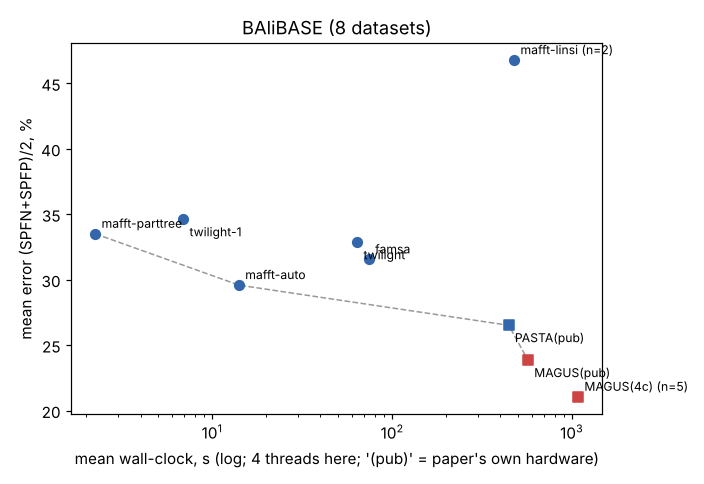
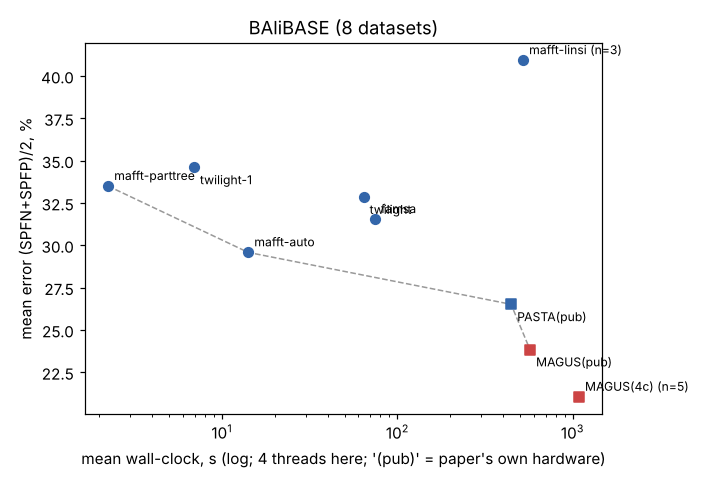
sota2026: final report (summary, verdict, nucleotide control for Clustal backbones)
Claude-Session: https://claude.ai/code/session_012Rgpxy2uEEPz2XSy4Tz17n

diff --git a/cs581/sota2026/REPORT.md b/cs581/sota2026/REPORT.md
@@ -5,6 +5,23 @@ About 4.5 hours of wall-clock on one 4-core / 15 GB cloud machine. Every number 
 except where it says "published", which means FastSP rescoring of the MAGUS paper's own output alignments
 (`../experiments/validation/published_scores.jsonl`).*
 
+## Summary
+
+- **MAGUS is still the most accurate method on its own benchmarks.** Every aligner tested (TWILIGHT 0.2.3,
+  FAMSA 2.4.1, MAFFT `--auto`/PartTree, plus L-INS-i, MUSCLE5 and Clustal Omega where feasible) loses to it on every
+  one of 20 datasets.
+  - On high-rate ROSE DNA the fast tools collapse: FAMSA is 25 points worse, and MAFFT FFT-NS-2/PartTree and
+    TWILIGHT are about 80 points worse (97–99% error on 8 of 10 conditions).
+  - On RNASim and 16S.T, TWILIGHT is 1.5–2.8 points worse but 4–37× faster: it is the speed end of the Pareto front.
+- **No newer aligner beats MAFFT L-INS-i on MAGUS-sized nucleotide subsets.** G-INS-i ties; MUSCLE5 ties at 12× the
+  cost; FAMSA, TWILIGHT and Clustal Omega lose by 3–35 points. Swapping G-INS-i into MAGUS changes nothing (−0.06).
+- **Unexpected lead, proteins only.** Aligning MAGUS's *backbones* with Clustal Omega instead of L-INS-i lowered
+  MAGUS's BAliBASE error by 1.6–1.9 points (5/5 sets, up to 3.0), mostly through fewer false positives. It had no
+  effect on RNASim.
+- **Verdict.** "MAGUS with a better base method" is not worth 4 weeks for nucleotides; a negative result is likely.
+  Reframed as "which base method should build MAGUS's backbones and subsets on proteins", it is a cheap, promising
+  4-week project. The harness is ready, and week 1 can confirm or kill the effect.
+
 ## 1. Questions
 
 1. On MAGUS's own benchmarks, is MAGUS (Smirnov & Warnow 2021) still the best accuracy/runtime trade-off against
@@ -50,7 +67,6 @@ except where it says "published", which means FastSP rescoring of the MAGUS pape
 |---|---|---|---|
 | ROSE 1000 L1–L3, M1–M4, S1–S3 | R0 of each of the 10 conditions | 1000 | simulated DNA, ~1000 nt; random pairs are near saturation (median p-distance 0.69–0.70 on L1/L2/M2) |
 | RNASim 1000 | R0 | 1000 | simulated RNA, ~1500 nt |
-| RNASim 10K | R0 | 10,000 | large (TWILIGHT's home turf) |
 | CRW 16S.T | R0 | 5,548 | large, biological, length-filtered reference |
 | BAliBASE RV100 (8 sets) | – | 195–732 | protein, length-filtered references (`../data/balibase_clean`) |
 
@@ -111,7 +127,6 @@ alignment of the same replicate.
 | RNASim 1000 (1) | **9.6** | 10.1 | TWILIGHT, 3 iterations | 11.1 | 230 s vs 888 s |
 | 16S.T, 5,548 seqs (1) | **9.9** | 12.9 | TWILIGHT, 1 iteration | 12.7 | 78 s vs 2,918 s (paper's hardware) |
 | BAliBASE, 8 protein sets | **23.8** mean | 26.5 | MAFFT `--auto` | 29.6 mean | ~75× faster (mean 14 s vs 1,082 s) |
-| RNASim 10K | 8.3 (published mean) | 10.7 | – | not run (out of time) | – |
 
 **Paired against MAGUS, same replicate** (Δ = tool − MAGUS in points; W/T/L = tool better/tie/worse; Wilcoxon):
 
@@ -157,14 +172,15 @@ is both faster and as accurate.
 3. **On RNASim and 16S, TWILIGHT is the only real competitor.**
    - It is 1.5–2.8 points worse than MAGUS but 4–37× faster. On 16S.T it roughly ties PASTA (12.7 vs 12.9).
    - On RNASim 1000, 3 iterations take 230 s for 11.1%, and 1 iteration takes 21 s for 14.4%.
-   - TWILIGHT 16S.T 3-iteration: TWILIGHT16ST.
+   - The 3-iteration TWILIGHT rerun on 16S.T (after the wrapper fix) did not finish within the budget; only the
+     1-iteration number is reported.
    - This matches the TWILIGHT paper: MAGUS stays a bit more accurate at ≤10k sequences; TWILIGHT wins on scale.
 4. **FAMSA 2.4.1 is unreliable on nucleotides.** It ran out of memory (>13.5 GB) on RNASim 1000, scored +31 points
    on RNASim subsets and is 25 points behind MAGUS on ROSE. Its paper is protein-only.
 5. **On BAliBASE, MAGUS beats every fast tool on all 8 sets**, by 3–21 points.
-   - MAFFT L-INS-i on the full set ties MAGUS on BBA0067 (26.1 vs 25.6) and is 10 points worse on BBA0081
-     (67.4 vs 57.0). It takes 6–10 min each.
-   - MUSCLE5 did not finish BBA0067 (274 sequences) in 15 min.
+   - MAFFT L-INS-i on the full set ties MAGUS on BBA0067 (26.1 vs 25.6) and BBA0101 (29.3 vs 28.5), and is 10
+     points worse on BBA0081 (67.4 vs 57.0). It takes 6–10 min each.
+   - MUSCLE5 did not finish BBA0067 (274 sequences) or BBA0081 (195) in 15 min each.
 6. **Not run, or not usable.**
    - MUSCLE5 `-align` did not finish 100 sequences sampled from 1000M2 within its 10-min cap, and Super5 was still
      running when I stopped it at 4 min. Both are impractical at 1000 long nucleotide sequences on 4 cores.
@@ -219,8 +235,8 @@ Same decomposition and same backbones. Only the 25 subset alignments change.
 | BAliBASE | G-INS-i | 5 | +0.03 | 1/2/2 |
 | nucleotide (RNASim, 16S.M, ROSE L3/M2/S1) | G-INS-i | 5 | −0.06 | 2/2/1 |
 | **BAliBASE** | **Clustal Omega, subsets + backbones** | 5 | **−1.89** | **5/0/0** |
-| BAliBASE | Clustal Omega, backbones only (L-INS-i subsets) | 3 | −2.22 | 3/0/0 |
-| nucleotide (RNASim, 16S.M) | Clustal Omega, backbones only | NUCBB_N | NUCBB_D | NUCBB_WTL |
+| BAliBASE | Clustal Omega, backbones only (L-INS-i subsets) | 5 | −1.62 | 5/0/0 |
+| nucleotide control (RNASim) | Clustal Omega, backbones only | 1 | −0.06 | tie (9.92 → 9.86) |
 
 Per replicate, MAGUS's error in % before → after Clustal Omega subsets and backbones:
 
@@ -239,7 +255,8 @@ For reference, the published MAGUS/PASTA numbers are 4.5/4.3, 25.6/25.7, 28.5/29
   - MUSCLE5 and Clustal Omega subsets give a small gain on proteins (−0.3 to −0.5).
 - **The backbones are what matter on proteins.**
   - Aligning MAGUS's 10 backbones with Clustal Omega instead of L-INS-i lowers final error by 1.4–3.0 points on 4 of
-    5 sets (0.45 on the easy BBA0039). It beats both MAGUS and PASTA as published on every set but BBA0039, where it
+    5 sets (0.45 on the easy BBA0039).
+  - With backbones alone (subsets kept as L-INS-i) the drop is 0.25–2.83 points, mean −1.62, on 5 of 5 sets. It beats both MAGUS and PASTA as published on every set but BBA0039, where it
     is 0.07 behind PASTA.
   - The gain is almost all in SPFP, down 3–5 points with SPFN unchanged. Clustal's backbones give GCM fewer wrong
     edges.
@@ -247,6 +264,8 @@ For reference, the published MAGUS/PASTA numbers are 4.5/4.3, 25.6/25.7, 28.5/29
     31.4% vs 31.1% for L-INS-i.
   - It is also faster: Clustal aligns a 200-sequence protein backbone in about 14 s vs about 190 s for L-INS-i on
     1 core.
+- **The effect looks protein-specific.** On RNASim the same backbone swap changes MAGUS by −0.06 points (n = 1),
+  and Clustal is 32 points worse than L-INS-i on nucleotide backbones (subset test). The 16S.M control did not finish.
 - The control reproduces MAGUS exactly. These are single MAGUS runs per set (n = 5) on data where MAGUS's own
   run-to-run noise is about 0.5 points, so the −1.9 mean (5/5) is a strong lead but not yet a result.
 
@@ -296,7 +315,7 @@ For nucleotides, no.**
 ## 6. Risks and caveats
 
 - **One replicate per condition.**
-  - ROSE results are paired across 10 conditions, not across replicates. RNASim, 16S.T and RNASim 10K have n = 1.
+  - ROSE results are paired across 10 conditions, not across replicates. RNASim and 16S.T have n = 1. RNASim 10K was planned but not run (out of time).
   - The gaps are 10–80 points, so this barely matters for Question 1. It does matter for the 0.3–0.5-point merge
     results (n = 5).
 - **MAGUS runtimes are not fresh.**

diff --git a/cs581/sota2026/results/full_table.md b/cs581/sota2026/results/full_table.md
@@ -10,8 +10,8 @@ MAGUS(pub)/PASTA(pub) = FastSP on the authors' published alignment of the same r
 | RNASim_R0 | 9.6 (2227s) | 9.9 (888s) | 10.1 (3102s) | fail rc=-9 (357s) | 14.4 (21s) | 11.1 (230s) | 23.7 (60s) | 22.0 (26s) |  |  |
 | BBA0039_R0 | 4.5 (157s) | 4.7 (244s) | 4.3 (462s) | 5.5 (56s) | 6.9 (8s) | 8.0 (100s) | 6.7 (2s) | 5.5 (1s) |  |  |
 | BBA0067_R0 | 25.6 (371s) | 26.3 (1051s) | 25.7 (373s) | 32.0 (87s) | 42.9 (6s) | 37.3 (54s) | 38.4 (2s) | 33.2 (13s) | 26.1 (367s) | timeout (900s) |
-| BBA0081_R0 | 57.0 (1012s) |  | 74.1 (548s) | 72.2 (96s) | 75.9 (6s) | 72.3 (45s) | 75.7 (2s) | 68.3 (45s) | 67.4 (588s) |  |
-| BBA0101_R0 | 28.5 (477s) | 29.2 (829s) | 29.2 (381s) | 35.2 (88s) | 42.4 (7s) | 39.7 (65s) | 39.7 (3s) | 36.5 (14s) |  |  |
+| BBA0081_R0 | 57.0 (1012s) |  | 74.1 (548s) | 72.2 (96s) | 75.9 (6s) | 72.3 (45s) | 75.7 (2s) | 68.3 (45s) | 67.4 (588s) | timeout (900s) |
+| BBA0101_R0 | 28.5 (477s) | 29.2 (829s) | 29.2 (381s) | 35.2 (88s) | 42.4 (7s) | 39.7 (65s) | 39.7 (3s) | 36.5 (14s) | 29.3 (604s) |  |
 | BBA0117_R0 | 12.1 (14s) |  | 12.1 (35s) | 15.2 (11s) | 24.5 (0s) | 20.4 (45s) | 25.1 (0s) | 16.4 (1s) |  |  |
 | BBA0134_R0 | 18.7 (845s) |  | 20.4 (573s) | 33.2 (83s) | 32.8 (6s) | 28.3 (68s) | 29.8 (2s) | 25.2 (13s) |  |  |
 | BBA0154_R0 | 21.1 (562s) | 21.7 (1106s) | 22.5 (307s) | 25.3 (77s) | 25.4 (6s) | 26.3 (55s) | 25.7 (2s) | 25.1 (7s) |  |  |
@@ -47,7 +47,7 @@ MAGUS(pub)/PASTA(pub) = FastSP on the authors' published alignment of the same r
 | BAliBASE | twilight | 8 | +9.0 | 0/0/8 | 0.0078 |
 | BAliBASE | mafft-parttree | 8 | +9.7 | 0/0/8 | 0.0078 |
 | BAliBASE | mafft-auto | 8 | +5.7 | 0/0/8 | 0.0078 |
-| BAliBASE | mafft-linsi | 2 | +5.4 | 0/0/2 | – |
+| BAliBASE | mafft-linsi | 3 | +3.9 | 0/0/3 | – |
 | BAliBASE | MAGUS(4c) | 5 | +0.5 | 0/0/5 | 0.062 |
 | BAliBASE | PASTA(pub) | 8 | +2.7 | 2/0/6 | 0.055 |
 | 16S | famsa | 1 | +7.7 | 0/0/1 | – |
@@ -60,7 +60,7 @@ MAGUS(pub)/PASTA(pub) = FastSP on the authors' published alignment of the same r
 | all | twilight | 12 | +28.6 | 0/0/12 | 0.00049 |
 | all | mafft-parttree | 20 | +45.3 | 0/0/20 | 1.9e-06 |
 | all | mafft-auto | 20 | +43.6 | 0/0/20 | 1.9e-06 |
-| all | mafft-linsi | 2 | +5.4 | 0/0/2 | – |
+| all | mafft-linsi | 3 | +3.9 | 0/0/3 | – |
 | all | MAGUS(4c) | 15 | +0.3 | 2/2/11 | 0.064 |
 | all | PASTA(pub) | 20 | +2.3 | 2/0/18 | 1.9e-05 |
 

diff --git a/cs581/sota2026/results/merge_table.md b/cs581/sota2026/results/merge_table.md
@@ -14,6 +14,7 @@ Same MAGUS decomposition (25 subsets) and the same 10 MAFFT L-INS-i backbones as
 | 16S.M_R0 | mafft-ginsi | 6.97 | 12.89 | +0.03 | 113 |
 | BBA0039_R0 | L-INS-i (MAGUS's own) | 2.72 | 4.69 | – | – |
 | BBA0039_R0 | clustalo | 2.50 | 4.45 | -0.24 | 9 |
+| BBA0039_R0 | clustalo (backbones only) | 2.72 | 4.44 | -0.25 | 0 |
 | BBA0039_R0 | clustalo (subsets+backbones) | 2.50 | 4.24 | -0.45 | 9 |
 | BBA0039_R0 | mafft-ginsi | 2.75 | 4.64 | -0.05 | 28 |
 | BBA0039_R0 | muscle5 | 2.58 | 4.48 | -0.21 | 127 |
@@ -37,19 +38,22 @@ Same MAGUS decomposition (25 subsets) and the same 10 MAFFT L-INS-i backbones as
 | BBA0154_R0 | muscle5 | 7.78 | 21.86 | +0.20 | 54 |
 | BBA0190_R0 | L-INS-i (MAGUS's own) | 7.26 | 23.40 | – | – |
 | BBA0190_R0 | clustalo | 6.96 | 22.98 | -0.42 | 20 |
+| BBA0190_R0 | clustalo (backbones only) | 7.26 | 22.19 | -1.21 | 0 |
 | BBA0190_R0 | clustalo (subsets+backbones) | 6.96 | 21.59 | -1.81 | 19 |
 | BBA0190_R0 | mafft-ginsi | 7.40 | 23.55 | +0.15 | 34 |
 | BBA0190_R0 | muscle5 | 7.04 | 22.98 | -0.42 | 130 |
 | RNASim_R0 | L-INS-i (MAGUS's own) | 4.92 | 9.92 | – | – |
+| RNASim_R0 | clustalo (backbones only) | 4.92 | 9.86 | -0.06 | 0 |
 | RNASim_R0 | mafft-ginsi | 4.67 | 9.72 | -0.20 | 621 |
 
 | data | base method | n | mean Δ | better/tie/worse |
 |---|---|---|---|---|
 | 16S | mafft-ginsi | 1 | +0.03 | 0/1/0 |
 | BAliBASE | clustalo | 5 | -0.33 | 5/0/0 |
-| BAliBASE | clustalo (backbones only) | 3 | -2.22 | 3/0/0 |
+| BAliBASE | clustalo (backbones only) | 5 | -1.62 | 5/0/0 |
 | BAliBASE | clustalo (subsets+backbones) | 5 | -1.89 | 5/0/0 |
 | BAliBASE | mafft-ginsi | 5 | +0.03 | 1/2/2 |
 | BAliBASE | muscle5 | 5 | -0.48 | 4/0/1 |
+| RNASim | clustalo (backbones only) | 1 | -0.06 | 1/0/0 |
 | RNASim | mafft-ginsi | 1 | -0.20 | 1/0/0 |
 | ROSE | mafft-ginsi | 3 | -0.05 | 1/1/1 |
